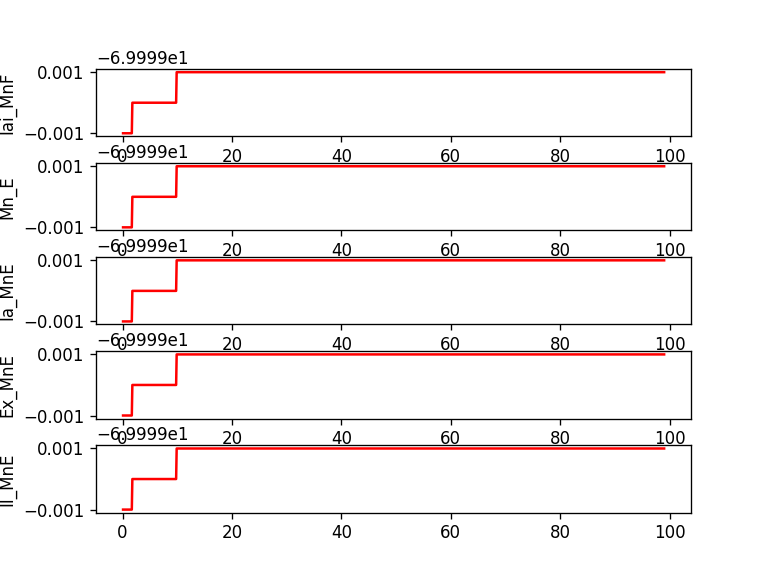
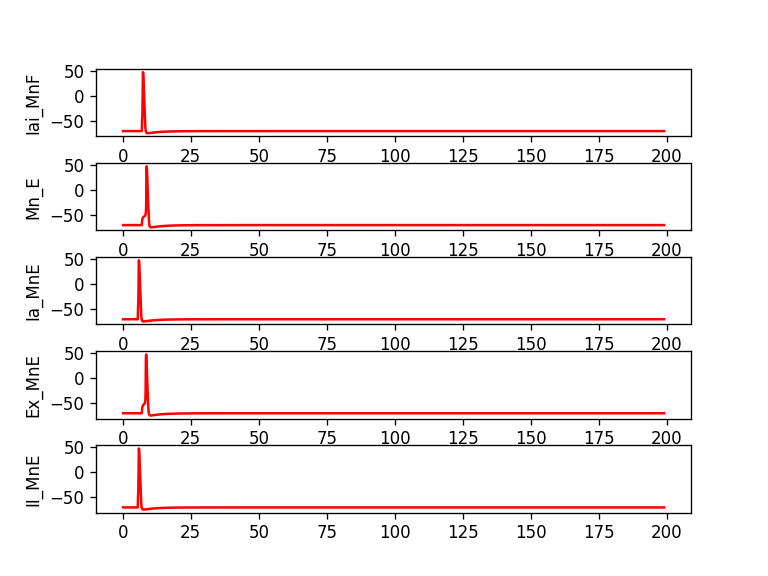
added connects

Changed region(s): [[0.0, 0.0938, 0.9062, 0.9375], [0.0, 0.2812, 0.125, 0.4062]]

diff --git a/reflex_arc/nest/Cheme_2/r_a_2.py b/reflex_arc/nest/Cheme_2/r_a_2.py
@@ -18,7 +18,7 @@ T = 100.
 glu_weight = 5.
 gaba_weight = -15.
 static_weight = 60.
-gen_rate = 40.
+gen_rate = 15.
 
 glu = {'model': 'static_synapse',
         'delay': 1.,
@@ -42,6 +42,9 @@ nest.Connect(pre=Ex_2, post=Mn_F, conn_spec={'rule': 'fixed_indegree', 'indegree
 nest.Connect(pre=I_I, post=In_1, conn_spec={'rule': 'fixed_indegree', 'indegree': 60},
              syn_spec=glu)
 
+nest.Connect(pre=In_1, post=Ex_3, conn_spec={'rule': 'fixed_indegree', 'indegree': 196},
+             syn_spec=glu)
+
 nest.Connect(pre=In_1, post=Mn_E, conn_spec={'rule': 'fixed_indegree', 'indegree': 196},
              syn_spec=gaba)
 
@@ -54,13 +57,16 @@ nest.Connect(pre=In_1_1, post=In_1, conn_spec={'rule': 'fixed_indegree', 'indegr
 nest.Connect(pre=In_1_1, post=Mn_F, conn_spec={'rule': 'fixed_indegree', 'indegree': 196},
              syn_spec=gaba)
 
+nest.Connect(pre=In_1_1, post=Ex_3, conn_spec={'rule': 'fixed_indegree', 'indegree': 196},
+             syn_spec=glu)
+
 nest.Connect(pre=I_a, post=Mn_F, conn_spec={'rule': 'fixed_indegree', 'indegree': 60},
              syn_spec=glu)
 
 nest.Connect(pre=I_a, post=In_1, conn_spec={'rule': 'fixed_indegree', 'indegree': 60},
              syn_spec=glu)
 
-nest.Connect(pre=S_h, post=In_2, conn_spec={'rule': 'fixed_indegree', 'indegree': 1},
+nest.Connect(pre=S_h, post=In_2, conn_spec={'rule': 'fixed_indegree', 'indegree': 60},
              syn_spec=glu)
 
 nest.Connect(pre=In_2, post=Mn_E, conn_spec={'rule': 'fixed_indegree', 'indegree': 196},
@@ -75,13 +81,13 @@ nest.Connect(pre=In_2_1, post=In_2, conn_spec={'rule': 'fixed_indegree', 'indegr
 nest.Connect(pre=In_2_1, post=Mn_F, conn_spec={'rule': 'fixed_indegree', 'indegree': 196},
              syn_spec=gaba)
 
-nest.Connect(pre=S_r, post=Ex_1, conn_spec={'rule': 'fixed_indegree', 'indegree': 1},
+nest.Connect(pre=S_r, post=Ex_1, conn_spec={'rule': 'fixed_indegree', 'indegree': 60},
              syn_spec=glu)
 
 nest.Connect(pre=Ex_1, post=Mn_R, conn_spec={'rule': 'fixed_indegree', 'indegree': 196},
              syn_spec=glu)
 
-nest.Connect(pre=S_r, post=In_3, conn_spec={'rule': 'fixed_indegree', 'indegree': 1},
+nest.Connect(pre=S_r, post=In_3, conn_spec={'rule': 'fixed_indegree', 'indegree': 60},
              syn_spec=glu)
 
 nest.Connect(pre=In_3, post=Mn_L, conn_spec={'rule': 'fixed_indegree', 'indegree': 196},
@@ -96,10 +102,13 @@ nest.Connect(pre=In_3_1, post=In_3, conn_spec={'rule': 'fixed_indegree', 'indegr
 nest.Connect(pre=In_3_1, post=Mn_R, conn_spec={'rule': 'fixed_indegree', 'indegree': 196},
              syn_spec=gaba)
 
-nest.Connect(pre=S, post=Ex_3, conn_spec={'rule': 'fixed_indegree', 'indegree': 1},
+nest.Connect(pre=S, post=Ex_3, conn_spec={'rule': 'fixed_indegree', 'indegree': 60},
              syn_spec=glu)
 
 nest.Connect(pre=Ex_3, post=Ex_4, conn_spec={'rule': 'fixed_indegree', 'indegree': 196},
+             syn_spec=glu)
+
+nest.Connect(pre=Ex_4, post=In_1, conn_spec={'rule': 'fixed_indegree', 'indegree': 196},
              syn_spec=glu)
 
 nest.Connect(pre=Ex_4, post=Mn_F, conn_spec={'rule': 'fixed_indegree', 'indegree': 196},
@@ -111,16 +120,19 @@ nest.Connect(pre=Ex_4, post=Ex_4_1, conn_spec={'rule': 'fixed_indegree', 'indegr
 nest.Connect(pre=Ex_4_1, post=Ex_4, conn_spec={'rule': 'fixed_indegree', 'indegree': 196},
              syn_spec=gaba)
 
+nest.Connect(pre=Ex_4_1, post=In_1_1, conn_spec={'rule': 'fixed_indegree', 'indegree': 196},
+             syn_spec=gaba)
+
 nest.Connect(pre=Ex_4_1, post=Mn_E, conn_spec={'rule': 'fixed_indegree', 'indegree': 196},
              syn_spec=glu)
 
 nest.Connect(pre=Ex_3, post=Ex_4_1, conn_spec={'rule': 'fixed_indegree', 'indegree': 196},
              syn_spec=gaba)
 
-nest.Connect(pre=S, post=Ex, conn_spec={'rule': 'fixed_indegree', 'indegree': 1},
+nest.Connect(pre=S, post=Ex, conn_spec={'rule': 'fixed_indegree', 'indegree': 60},
              syn_spec=glu)
 
-nest.Connect(pre=S_1, post=Ex_3_1, conn_spec={'rule': 'fixed_indegree', 'indegree': 1},
+nest.Connect(pre=S_1, post=Ex_3_1, conn_spec={'rule': 'fixed_indegree', 'indegree': 60},
              syn_spec=glu)
 
 nest.Connect(pre=Ex_3_1, post=Ex_4_1, conn_spec={'rule': 'fixed_indegree', 'indegree': 196},
@@ -129,16 +141,16 @@ nest.Connect(pre=Ex_3_1, post=Ex_4_1, conn_spec={'rule': 'fixed_indegree', 'inde
 nest.Connect(pre=Ex_3_1, post=Ex_4, conn_spec={'rule': 'fixed_indegree', 'indegree': 196},
              syn_spec=gaba)
 
-nest.Connect(pre=S_l, post=Ex_1_1, conn_spec={'rule': 'fixed_indegree', 'indegree': 1},
+nest.Connect(pre=S_l, post=Ex_1_1, conn_spec={'rule': 'fixed_indegree', 'indegree': 60},
              syn_spec=glu)
 
 nest.Connect(pre=Ex_1_1, post=Mn_L, conn_spec={'rule': 'fixed_indegree', 'indegree': 196},
              syn_spec=glu)
 
-nest.Connect(pre=S_l, post=In_3_1, conn_spec={'rule': 'fixed_indegree', 'indegree': 1},
+nest.Connect(pre=S_l, post=In_3_1, conn_spec={'rule': 'fixed_indegree', 'indegree': 60},
              syn_spec=glu)
 
-nest.Connect(pre=S_t, post=In_2_1, conn_spec={'rule': 'fixed_indegree', 'indegree': 1},
+nest.Connect(pre=S_t, post=In_2_1, conn_spec={'rule': 'fixed_indegree', 'indegree': 60},
              syn_spec=glu)
 
 nest.Connect(pre=I_a_1, post=Mn_E, conn_spec={'rule': 'fixed_indegree', 'indegree': 60},
@@ -157,7 +169,7 @@ nest.Connect(pre=I_I_1, post=In_1_1, conn_spec={'rule': 'fixed_indegree', 'indeg
              syn_spec=glu)
 
 time_between_spikes = 1000 / gen_rate  # time between spikes
-spike_times = [4.5 + i * time_between_spikes for i in range(int(T / time_between_spikes))]
+spike_times = [round(4.5 + i * time_between_spikes, 1) for i in range(int(T / time_between_spikes))]
 generators = nest.Create("spike_generator", 1, {'spike_times': spike_times,
                                                 'spike_weights': [10.0 for i in spike_times]})
 generator_1 = nest.Create("spike_generator", 1, {'spike_times': spike_times,
@@ -200,3 +212,5 @@ else:
 nest.Simulate(T)
 
 plot(gen_rate, glu_weight, gaba_weight, static_weight, group='moto')
+plot(gen_rate, glu_weight, gaba_weight, static_weight, group='sensory')
+plot(gen_rate, glu_weight, gaba_weight, static_weight, group='afferent')

diff --git a/reflex_arc/nest/Cheme_2/n_m_2.py b/reflex_arc/nest/Cheme_2/n_m_2.py
@@ -15,7 +15,7 @@ nrn_parameters = {
 
 # Neuron
 
-#Moto
+# Moto
 
 Mn_L = nest.Create("hh_cond_exp_traub", 169, nrn_parameters)
 
@@ -26,17 +26,17 @@ Mn_F = nest.Create("hh_cond_exp_traub", 169, nrn_parameters)
 Mn_R = nest.Create("hh_cond_exp_traub", 169, nrn_parameters)
 
 # Sensory
-S = nest.Create("hh_cond_exp_traub", 1, nrn_parameters)
+S = nest.Create("hh_cond_exp_traub", 60, nrn_parameters)
 
-S_r = nest.Create("hh_cond_exp_traub", 1, nrn_parameters)
+S_r = nest.Create("hh_cond_exp_traub", 60, nrn_parameters)
 
-S_h = nest.Create("hh_cond_exp_traub", 1, nrn_parameters)
+S_h = nest.Create("hh_cond_exp_traub", 60, nrn_parameters)
 
-S_1 = nest.Create("hh_cond_exp_traub", 1, nrn_parameters)
+S_1 = nest.Create("hh_cond_exp_traub", 60, nrn_parameters)
 
-S_l = nest.Create("hh_cond_exp_traub", 1, nrn_parameters)
+S_l = nest.Create("hh_cond_exp_traub", 60, nrn_parameters)
 
-S_t = nest.Create("hh_cond_exp_traub", 1, nrn_parameters)
+S_t = nest.Create("hh_cond_exp_traub", 60, nrn_parameters)
 
 # Inhibitory
 In_1 = nest.Create("hh_cond_exp_traub", 196, nrn_parameters)
@@ -79,7 +79,10 @@ I_a_1 = nest.Create("hh_cond_exp_traub", 60, nrn_parameters)
 
 I_I_1 = nest.Create("hh_cond_exp_traub", 60, nrn_parameters)
 
+
 # Multimeter
+
+# Moto
 mm_Mn_R = nest.Create("multimeter", 1, {'record_from': ['V_m'], "interval": 0.1, 'to_file': True, 'label':
                         'results/mn_r'})
 
@@ -92,34 +95,38 @@ mm_Mn_E = nest.Create("multimeter", 1, {'record_from': ['V_m'], "interval": 0.1,
 mm_Mn_L = nest.Create("multimeter", 1, {'record_from': ['V_m'], "interval": 0.1, 'to_file': True, 'label':
                         'results/mn_l'})
 
-
+# Sensory
 
 mm_S = nest.Create("multimeter", 1, {'record_from': ['V_m'], "interval": 0.1, 'to_file': True, 'label':
                         'results/s'})
 
+mm_S_1 = nest.Create("multimeter", 1, {'record_from': ['V_m'], "interval": 0.1, 'to_file': True, 'label':
+                        'results/s_1'})
+
 mm_S_r = nest.Create("multimeter", 1, {'record_from': ['V_m'], "interval": 0.1, 'to_file': True, 'label':
-                        'results/s'})
+                        'results/s_r'})
 
 mm_S_h = nest.Create("multimeter", 1, {'record_from': ['V_m'], "interval": 0.1, 'to_file': True, 'label':
-                        'results/s'})
-
-mm_I_a = nest.Create("multimeter", 1, {'record_from': ['V_m'], "interval": 0.1, 'to_file': True, 'label':
-                        'results/s'})
-
-mm_I_I = nest.Create("multimeter", 1, {'record_from': ['V_m'], "interval": 0.1, 'to_file': True, 'label':
-                        'results/s'})
-
-mm_I_I_1 = nest.Create("multimeter", 1, {'record_from': ['V_m'], "interval": 0.1, 'to_file': True, 'label':
-                        'results/s'})
-
-mm_I_a_1 = nest.Create("multimeter", 1, {'record_from': ['V_m'], "interval": 0.1, 'to_file': True, 'label':
-                        'results/s'})
+                        'results/s_h'})
 
 mm_S_t = nest.Create("multimeter", 1, {'record_from': ['V_m'], "interval": 0.1, 'to_file': True, 'label':
-                        'results/s'})
+                        'results/s_t'})
 
 mm_S_l = nest.Create("multimeter", 1, {'record_from': ['V_m'], "interval": 0.1, 'to_file': True, 'label':
-                        'results/s'})
+                        'results/s_l'})
 
-mm_S_1 = nest.Create("multimeter", 1, {'record_from': ['V_m'], "interval": 0.1, 'to_file': True, 'label':
-                        'results/s'})
+
+# Afferent
+
+mm_I_a = nest.Create("multimeter", 1, {'record_from': ['V_m'], "interval": 0.1, 'to_file': True, 'label':
+                        'results/i_a'})
+
+mm_I_I = nest.Create("multimeter", 1, {'record_from': ['V_m'], "interval": 0.1, 'to_file': True, 'label':
+                        'results/i_i'})
+
+mm_I_I_1 = nest.Create("multimeter", 1, {'record_from': ['V_m'], "interval": 0.1, 'to_file': True, 'label':
+                        'results/i_i_1'})
+
+mm_I_a_1 = nest.Create("multimeter", 1, {'record_from': ['V_m'], "interval": 0.1, 'to_file': True, 'label':
+                        'results/i_a_1'})
+

diff --git a/reflex_arc/nest/Cheme_2/pl_2.py b/reflex_arc/nest/Cheme_2/pl_2.py
@@ -3,6 +3,8 @@ import os
 
 names = dict()
 names['moto'] = ['Mn_R', 'Mn_F', 'Mn_E', 'Mn_L']
+names['sensory'] = ['S', 'S_1', 'S_r', 'S_h', 'S_t', 'S_l']
+names['afferent'] = ['I_a', 'I_I', 'I_I_1', 'I_a_1']
 
 
 def plot_one(name):
@@ -21,8 +23,8 @@ def plot_one(name):
 
 
 def plot(gen_rate, glu_weight, gaba_weight, static_weight, group: str):
-    for i in range(5):
-        pylab.subplot(5, 1, i + 1)
+    for i in range(4):
+        pylab.subplot(4, 1, i + 1)
         plot_one(names[group][i])
     pylab.subplots_adjust(hspace=0.4)
     pylab.savefig('R_A_2_{}_{}Hz_glu{}_gaba{}_stat{}.png'.format(group, gen_rate, glu_weight, gaba_weight, static_weight),
